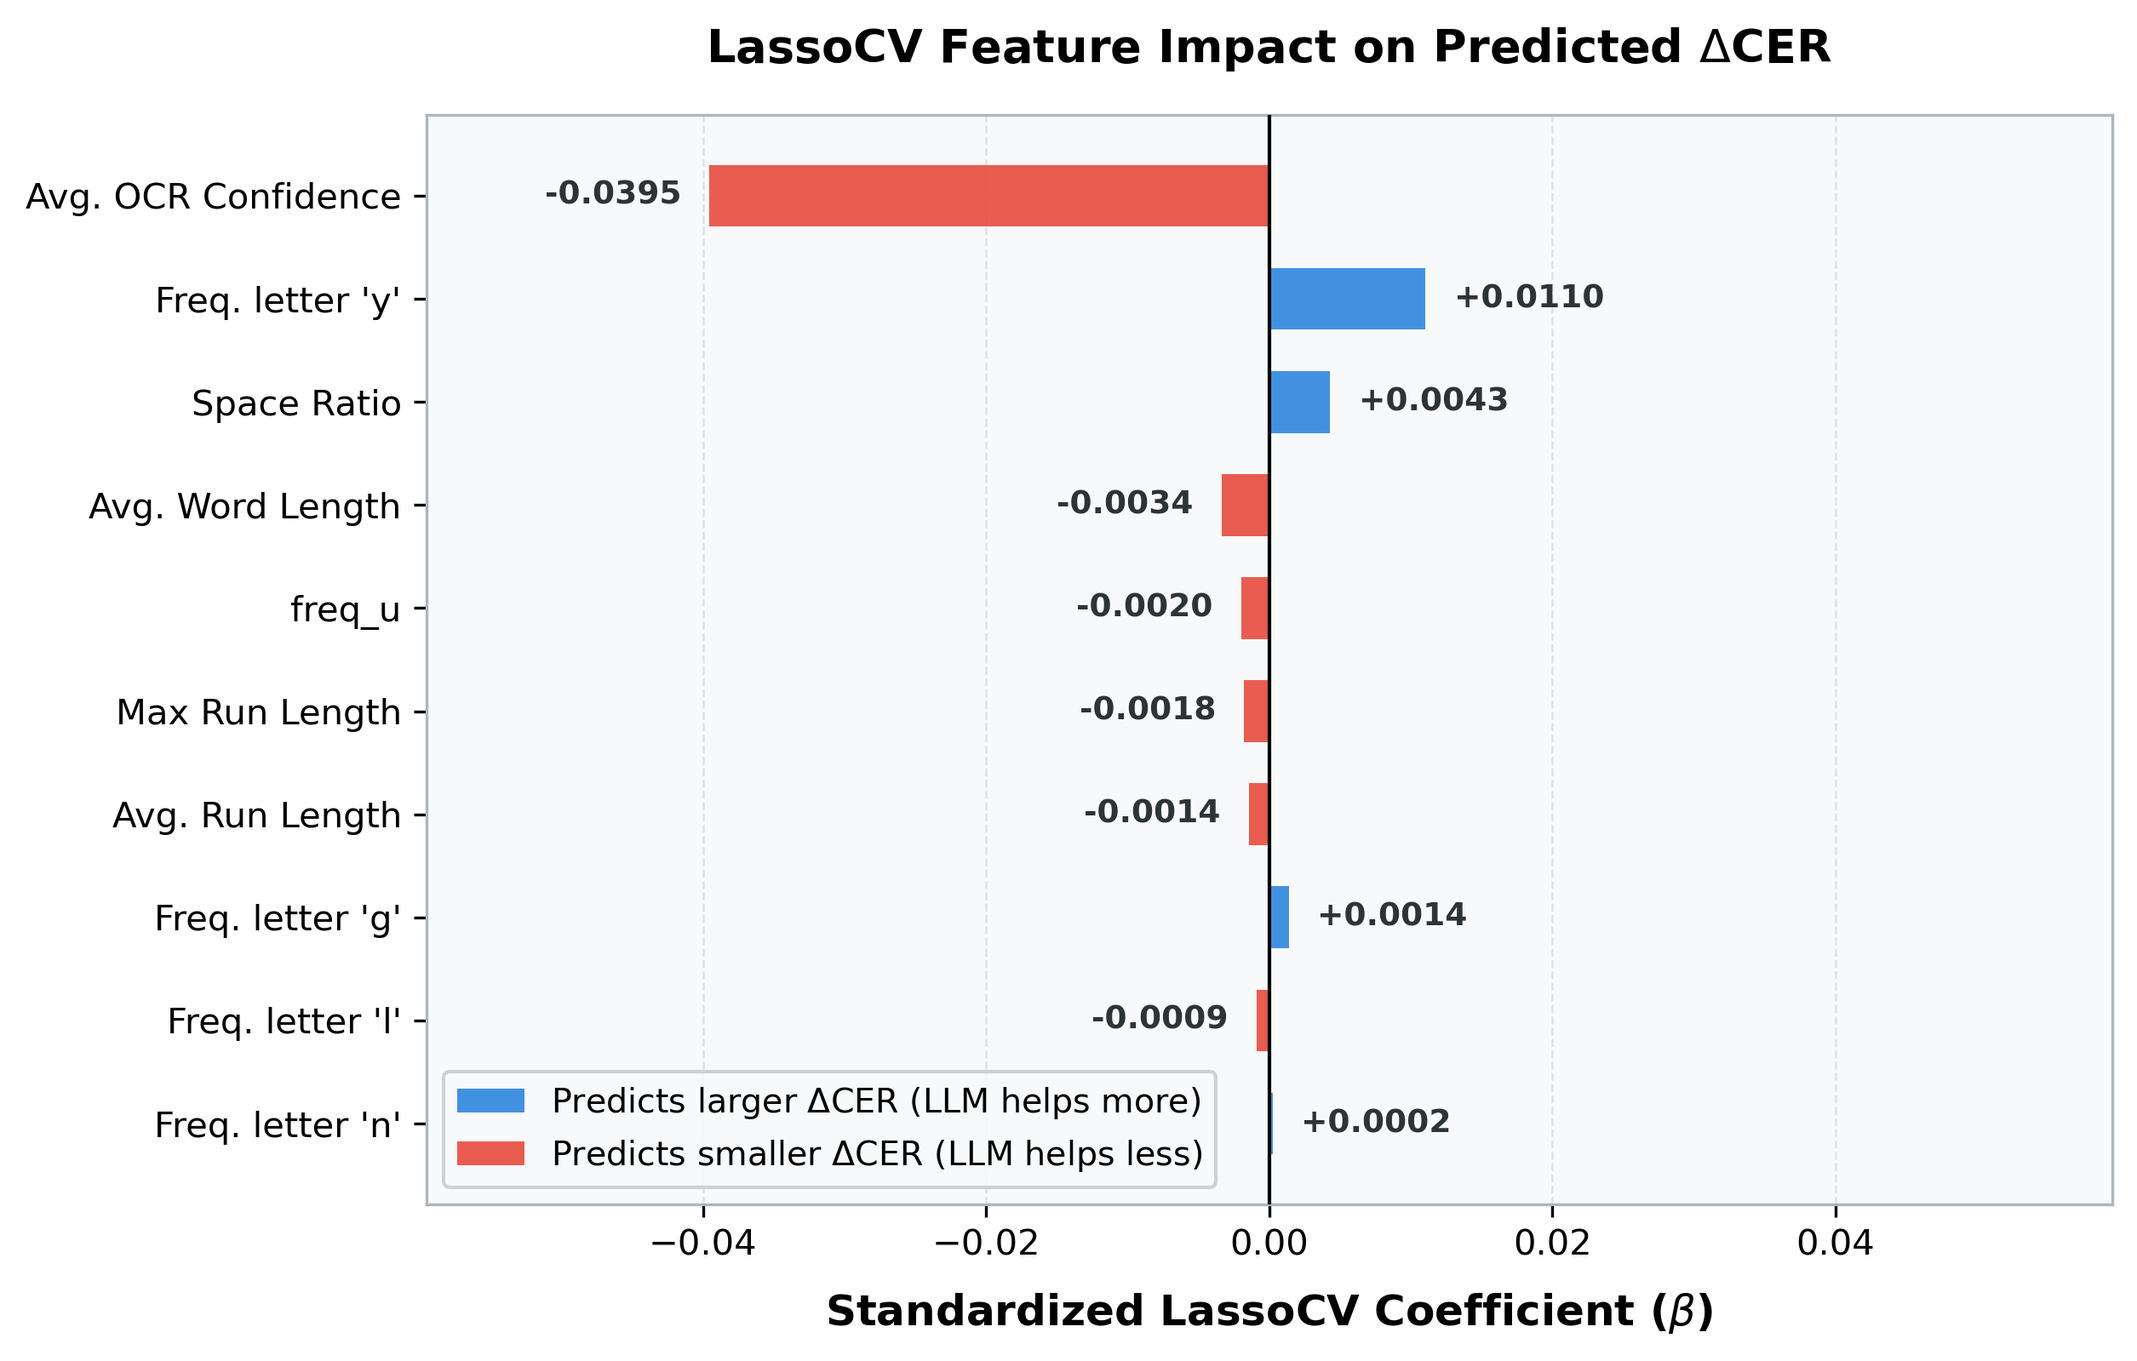
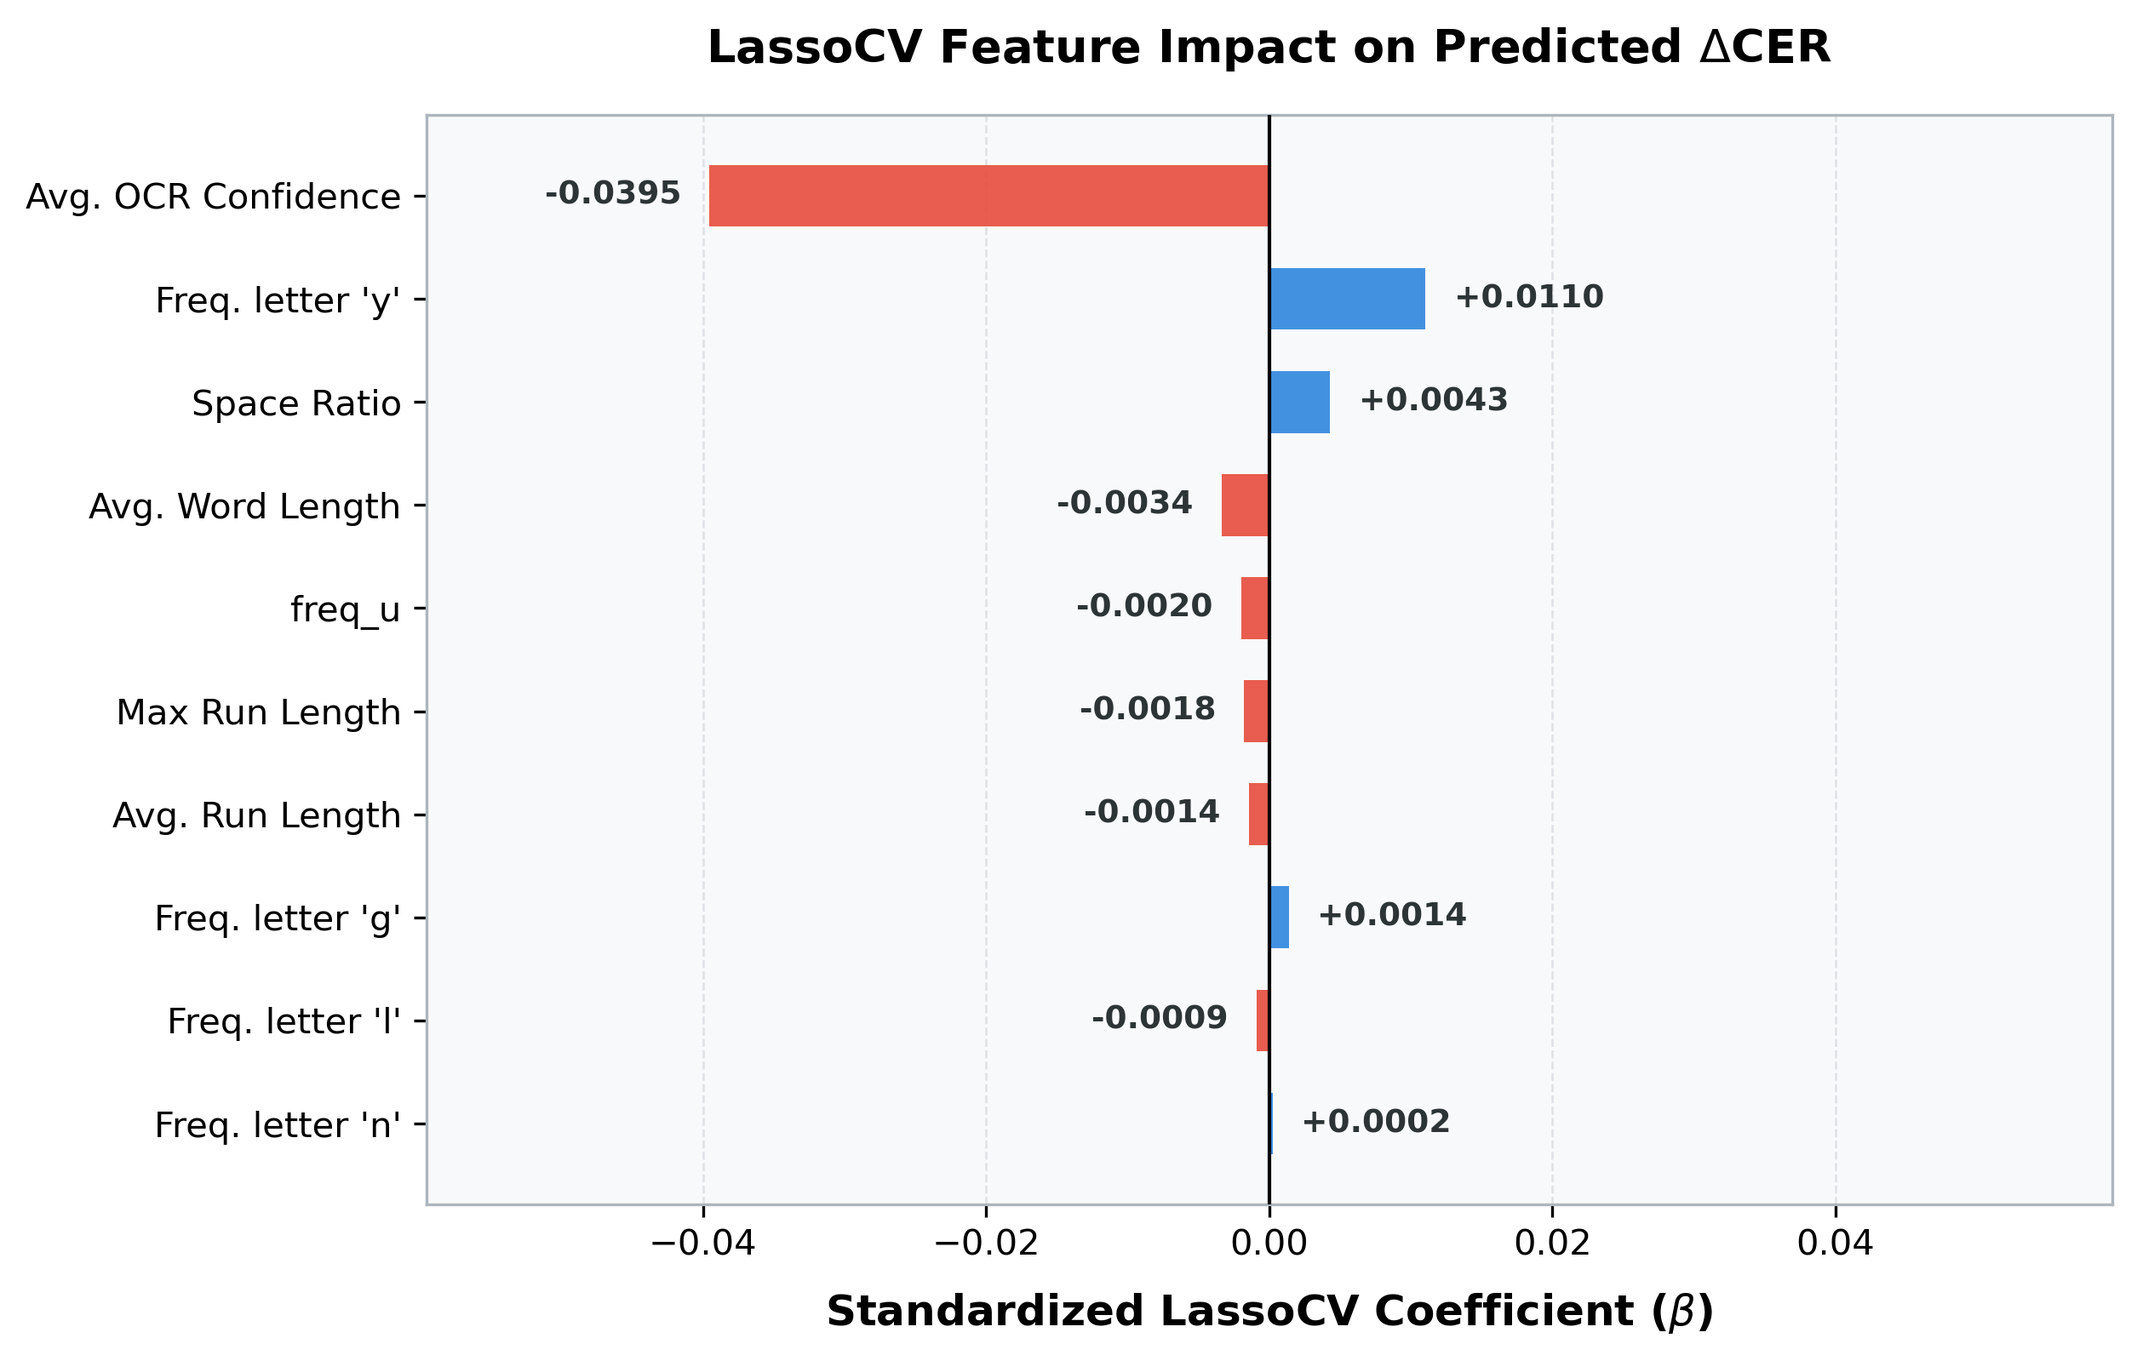
accepted paper!

Changed region(s): [[0.1865, 0.7967, 0.5594, 0.858]]

diff --git a/paper/main.tex b/paper/main.tex
@@ -1,6 +1,6 @@
 %%
 %% This is file `main.tex',
-%% Curated for DocEng 2026
+%% Accepted!!!!!
 %%
 \documentclass[sigconf, review]{acmart}
 \usepackage{xcolor}
@@ -21,34 +21,34 @@
 \setcopyright{acmlicensed}
 \copyrightyear{2026}
 \acmYear{2026}
-\acmDOI{XXXXXXX.XXXXXXX}
+\acmDOI{10.1145/3820755.3832797}
 \acmConference[DocEng '26]{The 26th ACM Symposium on Document Engineering}{August 25--28, 2026}{Fribourg, Switzerland}
 \acmISBN{978-1-4503-XXXX-X/26/08}
 
 \begin{document}
 
 \title{Cost-Aware Human-LLM Collaboration for post-OCR \\ Corrections in Swiss Historical Newspapers}
-\author{Anonymised for review}
-%\author{Stergios Konstantinidis}
-%\affiliation{%
-%  \institution{University of Lausanne}
-%  \city{Lausanne}
-%  \country{Switzerland}}
-%\email{stergios@unil.ch}
-%
-%\author{Hayman Lotfy}
-%\affiliation{%
-%  \institution{University of Lausanne}
-%  \city{Lausanne}
-%  \country{Switzerland}}
-%  \email{hayman.lotfy@unil.ch}
-%
-%\author{Michalis Vlachos}
-%\affiliation{%
-%  \institution{University of Lausanne}
-%  \city{Lausanne}
-%  \country{Switzerland}}
-%\email{michalis.vlachos@unil.ch}
+
+\author{Stergios Konstantinidis}
+\affiliation{%
+  \institution{University of Lausanne}
+  \city{Lausanne}
+  \country{Switzerland}}
+\email{stergios@unil.ch}
+
+\author{Hayman Lotfy}
+\affiliation{%
+  \institution{University of Lausanne}
+  \city{Lausanne}
+  \country{Switzerland}}
+  \email{hayman.lotfy@unil.ch}
+
+\author{Michalis Vlachos}
+\affiliation{%
+  \institution{University of Lausanne}
+  \city{Lausanne}
+  \country{Switzerland}}
+\email{michalis.vlachos@unil.ch}
 
 %\renewcommand{\shortauthors}{Konstantinidis et al.}
 \renewcommand{\shortauthors}{Anonymised for review}
@@ -91,8 +91,8 @@ To address these issues, we propose a three-tier collaboration framework that ro
 Our main \textbf{contributions} are:
 \begin{itemize}
     \item A cost-aware routing framework coordinating OCR outputs, LLMs, and human reviewers, with a regression-guided routing strategy.
-    \item A routing approach with a safeguard layer that detects harmful LLM corrections and routes uncertain segments to human review under a small budget constraint ($<$5\% of the corpus).
-    \item An evaluation on a historical Swiss newspaper corpus (1733--1945) showing our safeguard achieves 2.56\% CER with only $<$5\% of the corpus reviewed by human experts, a 14\% relative reduction over the All-LLM baseline (2.98\% CER) and substantially outperforming confidence-based approaches.
+    \item A routing approach with a safeguard layer that detects when an LLM correction will deteriorate the OCR result and routes uncertain segments to human review under a small budget constraint ($<$5\% of the corpus).
+    \item An evaluation on a historical Swiss newspaper corpus (1733--1945) showing that our method achieves 2.56\% CER with only $<$5\% of the corpus reviewed by human experts, a 14\% relative reduction over the All-LLM baseline (2.98\% CER) and substantially outperforming confidence-based approaches.
 \end{itemize}
 
 
@@ -103,7 +103,7 @@ Post-OCR correction is transitioning from rule-based and statistical methods, su
 OCR engine confidence scores are frequently used to locate errors. Hemmer et al. \cite{10.1007/978-3-031-70442-0_13} propose ConfBERT, which fuses token confidence scores with language representations for binary error detection. Unlike token-level error detection, our framework operates at the document-segment level to make three-class routing decisions based on surface, spelling, and metadata features.
 
 \medskip\noindent\textbf{Cost-Aware Routing.}
-As LLM adoption grows, cost-aware routers like RouteLLM \cite{Ong2025RouteLLMLT, li2025costaware} learn to route queries between strong and weak models. Similarly, bandit-based frameworks choose among multiple LLMs \cite{panda2025pilot, wang2025barp}. Complementary to this, our work addresses the binary decision of whether to invoke LLM correction at all, using lightweight, domain-specific features rather than learned embeddings.
+As LLM adoption grows, cost-aware routers like RouteLLM \cite{Ong2025RouteLLMLT, li2025costaware} learn to route queries between strong and weak models. Similarly, bandit-based frameworks choose among multiple LLMs \cite{panda2025pilot, wang2025barp}. Complementary to this, our work addresses the decision of whether a correction is needed, and \textit{if} an LLM correction is adequate.
 
 
 
@@ -134,7 +134,7 @@ We define three correction paths based on the raw and corrected error rates:
 These labels are used to characterize the ideal correction path during evaluation. At deployment time, the true error rates are unavailable; the learned router approximates these decisions using only features extracted from the raw OCR segment.
 
 \medskip\noindent\textbf{Cost Model.}
-Segments represent newspaper blocks averaging ~220 characters ($\sim$35 words). Class 0 carries zero cost. Class 1 (LLM) carries an API cost. Class 2 (Human) carries a time cost of $T_{\text{human}} = 4$ minutes per segment (15 segments/hour) to compare the OCR with the historical page image. For an hourly wage $W$, the human segment cost is $C_{\text{human}} = W / 15$ (e.g., \$1.00 at \$15/hour wage, \$2.00 at \$30/hour wage). Under current pricing, the LLM correction cost is approximately three orders of magnitude smaller than the human cost, making the routing decision almost entirely a question of human workload minimization.
+Segments represent newspaper blocks averaging ~220 characters ($\sim$35 words). Class 0 carries zero cost. Class 1 (LLM) carries an API cost. Class 2 (Human) carries an estimated time cost of $T_{\text{human}} = 4$ minutes per segment (15 segments/hour) to compare the OCR with the historical page image. For an hourly wage $W$, the human segment cost is $C_{\text{human}} = W / 15$ (e.g., \$1.00 at \$15/hour wage, \$2.00 at \$30/hour wage \footnote{ \href{https://freelancer.ypai.ai/jobs/french/annotation}{Costs reported for freelance annotators: https://freelancer.ypai.ai/jobs/french/annotation, as of April 2026}}). Under current pricing, the LLM correction cost is approximately three orders of magnitude smaller than the human cost, making the routing decision almost entirely a question of human workload minimization.
 
 \medskip\noindent\textbf{OCR, LLMs, and Prompt Design.}
 To evaluate correction generalizability, we run three OCR engines: PaddleOCR~v3~\cite{cui2025paddleocr}, EasyOCR\footnote{\url{https://github.com/JaidedAI/EasyOCR}}, and Tesseract~v5~\cite{tesseractOCR}. Post-correction is performed using six LLMs, spanning closed-source (Gemini~3 Flash, GPT-4o, Claude~3.5 Haiku)\cite{google2025gemini3flash,openai2024gpt4osystemcard, anthropic2024claude35haiku} and open-weight (Qwen~2.5-72B, Llama~3.3-70B, Gemma~4~31B) \cite{qwen2024qwen25,meta2024llama33,google2026gemma4} models. For each model, we evaluate ten distinct prompt templates of increasing complexity: (i)~\emph{Basic} (Prompts 1--2) provide direct, zero-shot instructions focused on raw text recovery, spacing, and punctuation; (ii)~\emph{Intermediate} (Prompts 3--6) introduce historical rules to preserve archaic French orthography and resolve standard typographic confusions (e.g., long `s'~\textit{f}/\textit{s} confusion); (iii)~\emph{Expert/Master} (Prompts 7--10) integrate in-context few-shot exemplars, structured Chain-of-Thought reasoning steps, and strict output formatting constraints to eliminate conversational preambles. Due to space limits, we report results using Tesseract and Gemini~3 Flash, which represent the optimal quality-cost configuration; results for other models and the full prompt ablation study are available in our code repository.
@@ -148,7 +148,7 @@ Rather than casting routing as classification, we adopt a two-step approach:
 A LassoCV regression model predicts the continuous improvement in CER ($\Delta\text{CER} = \text{CER}_{\text{raw}} - \text{CER}_{\text{corr}}$) from the raw-OCR feature vector $\phi(d_i)$. A positive $\Delta\text{CER}$ indicates that LLM correction reduces error. Segments are sorted by predicted $\Delta\text{CER}$ (most beneficial first) and corrected incrementally.
 
 \smallskip\noindent\emph{Step 2: Per-segment safeguard.}
-As each segment is processed in the priority order, a safeguard classifier decides its correction path. We train a logistic regression model under 10-fold CV to estimate $P(\Delta\text{CER} \geq 0 \mid \phi(d_i))$ the probability that LLM correction is safe (i.e., does not increase error). For each segment:
+As each segment is processed in the priority order, a safeguard classifier decides its correction path. We train a logistic regression model under 10-fold CV to estimate $P(\Delta\text{CER} \geq 0 \mid \phi(d_i))$ the probability that the LLM correction is safe (i.e., does not increase error). For each segment:
 \begin{itemize}
     \item If $P \geq 0.5$: the LLM correction is \textbf{accepted} (correction is likely safe).
     \item If $P < 0.5$ and the human budget $B$ is not exhausted: the segment is \textbf{routed to human review} (perfect correction, CER $= 0$).
@@ -165,11 +165,11 @@ We structure the evaluation around two research questions:
     \item \textbf{RQ2:} Can post-LLM safeguard classifiers detect and intercept harmful corrections under a fixed operational budget?
 \end{itemize}
 All code, data, prompts, and per-model results are available in an anonymized
-repository.\footnote{\url{https://anonymous.4open.science/r/doceng-public-A226}}
+repository.\footnote{\url{https://github.com/Stergios-Konstantinidis/Cost-Aware-Human-LLM-Collaboration-for-post-OCR-Corrections}}
 
 
 \medskip\noindent\textbf{Corpus and annotation.}
-We use a corpus drawn from nine distinct periodicals published in the Canton of Vaud between 1733 and 1945, spanning over two centuries of French-language press, from 18th-century literary journals (Mercure Suisse) to 20th-century dailies (Tribune de Lausanne) and totaling 609 text segments across 45 digitized pages. This temporal and typographic diversity ensures the evaluation covers a wide range of OCR degradation patterns, including early typefaces (see Fig.~\ref{fig:segment_example}), 19th-century serif layouts, and modern multi-column newspaper formats. Three French-speaking annotators produced fidelity-oriented
+We use a corpus drawn from nine distinct periodicals published in the Canton of Vaud between 1733 and 1945, spanning over two centuries of French-language press, from 18th-century literary journals (Mercure Suisse) to 20th-century dailies (Tribune de Lausanne) and totaling 609 text segments across 45 digitized pages. This temporal and typographic diversity ensures that the evaluation covers a wide range of OCR degradation patterns, including early typefaces (see Fig.~\ref{fig:segment_example}), 19th-century serif layouts, and modern multi-column newspaper formats. Three French-speaking annotators produced fidelity-oriented
 transcriptions that preserve historical spelling and source anomalies. We report
 WER and CER, computed after a topological normalization step that unifies
 historical character variants and spacing.
@@ -193,7 +193,7 @@ For each routing decision, we simulate the resulting text quality: segments rout
 
 \begin{figure}[t!]
 \centering
-\includegraphics[width=0.9\columnwidth]{paper/figures/safeguard_routing_plot.png}
+\includegraphics[width=\columnwidth]{paper/figures/safeguard_routing_plot.png}
 \vspace{-\baselineskip}
 \caption{CER routing frontier comparing our LassoCV approach (with and without safeguard), ConfBERT~\cite{10.1007/978-3-031-70442-0_13}, and Oracle (perfect routing). The safeguard routes $<$5\% of segments to human review.}
 \label{fig:safeguard_routing}
@@ -212,7 +212,7 @@ Analyzing the LassoCV coefficients (Figure~\ref{fig:lasso_features}) reveals whi
 \centering
 \includegraphics[width=\columnwidth]{paper/figures/lasso_feature_impact.png}
 \vspace{-1.5\baselineskip}
-\caption{Standardized LassoCV coefficients for predicting $\Delta$CER. Positive coefficients (blue) indicate features where LLM correction yields larger gains; negative coefficients (red) indicate features associated with smaller improvement.}
+\caption{Standardized LassoCV coefficients for predicting $\Delta$CER. Positive coefficients (blue) indicate features where the LLM correction yields larger gains; negative coefficients (red) indicate features negatively correlated with CER improvement.}
 \label{fig:lasso_features}
 \end{figure}
 
@@ -247,14 +247,17 @@ The routing decisions in our framework are ultimately governed by the cost ratio
 
 Our results show that the answer is surprisingly targeted. The safeguard routes only 29 segments ($<$5\% of the corpus) to human review, yet this small allocation reduces CER from 2.98\% to 2.56\%. Each human-reviewed segment contributes disproportionately to overall quality because it replaces a case where the LLM would have introduced errors.
 
-As better LLM corrections become effectively free, the routing decision grows more complex: should a segment go to a cost-effective model, a quality-optimized one, or a human expert? In this multi-tier setting, the safeguard's ability to predict $P(\Delta\text{CER} \geq 0)$ becomes the critical component, since it directly determines how many segments need expert review.
+As better LLM corrections become effectively free, the routing decision grows more complex: Should a segment go to a cost-effective model, a quality-optimized one, or a human expert? In this multi-tier setting, the safeguard's ability to predict $P(\Delta\text{CER} \geq 0)$ becomes the critical component, since it directly determines how many segments need expert review.
 
 Conversely, if human correction costs decrease (through crowdsourcing, semi-automated review interfaces, or improved OCR that reduces the number of degraded segments) the optimal human budget $B$ could increase, and the framework would naturally route more segments to human review. The operating-point flexibility of our approach accommodates this: practitioners can adjust $B$ as a single parameter to reflect their cost structure, without retraining the routing model. This adaptability makes the framework robust to the rapid shifts in both LLM pricing and human labor costs that characterize the current landscape.
 %\balance
 
 \section{Conclusion}
-A cost-aware, three-tier OCR text correction framework selects between: no extra correction, LLM correction, or human review. The method uses a lightweight regression-guided routing with a safeguard layer. With less than $5\%$ of the corpus reviewed by humans, it achieves a 14\% relative CER reduction over an All-LLM baseline, showing that targeted human intervention on the most uncertain cases outperforms either corrector in isolation.
+A cost-aware, three-tier OCR text correction framework selects between no extra correction, LLM correction, or human review. The method uses a lightweight regression-guided routing with a safeguard layer. With less than $5\%$ of the corpus reviewed by humans, it achieves a 14\% relative CER reduction over an All-LLM baseline, showing that targeted human intervention on the most uncertain cases outperforms either corrector in isolation.
 
+ \section*{Acknowledgments}
+This work was supported by the Swiss National Science Foundation (SNSF), Switzerland, under Grant No. 237991.\\
+% We would like to acknowledge unpublished work from Jonathan Pua from NUS demonstrating that elements with high error rates can be identified.
 
 \bibliographystyle{ACM-Reference-Format}
 \bibliography{main}

diff --git a/code/plotting/plot_lasso_feature_impact.py b/code/plotting/plot_lasso_feature_impact.py
@@ -164,13 +164,7 @@ def plot_feature_impact(top_features):
     ax.grid(True, axis="x", color=C_GRID, linestyle="--", linewidth=0.6, zorder=0)
     ax.set_axisbelow(True)
 
-    # Legend
-    from matplotlib.patches import Patch
-    legend_elements = [
-        Patch(facecolor=C_POS, alpha=0.9, label=r"Predicts larger $\Delta$CER (LLM helps more)"),
-        Patch(facecolor=C_NEG, alpha=0.9, label=r"Predicts smaller $\Delta$CER (LLM helps less)"),
-    ]
-    ax.legend(handles=legend_elements, loc="lower left", framealpha=0.9, fontsize=9.5)
+
 
     # Adjust limits
     max_val = max(abs(x) for x in coefficients)

diff --git a/README.md b/README.md
@@ -116,7 +116,7 @@ Generates `paper/figures/lasso_feature_impact.png` — standardized LassoCV coef
 | Mercure Suisse | 1733–1738 | 2 | 5 | 16 |
 | **Total** | **1733–1945** | **20** | **45** | **609** |
 
-Of these, 609 segments have successful OCR scans (12 failed scans return empty strings).
+Of these, 597 segments have successful OCR scans (12 failed scans return empty strings).
 
 ---
 
